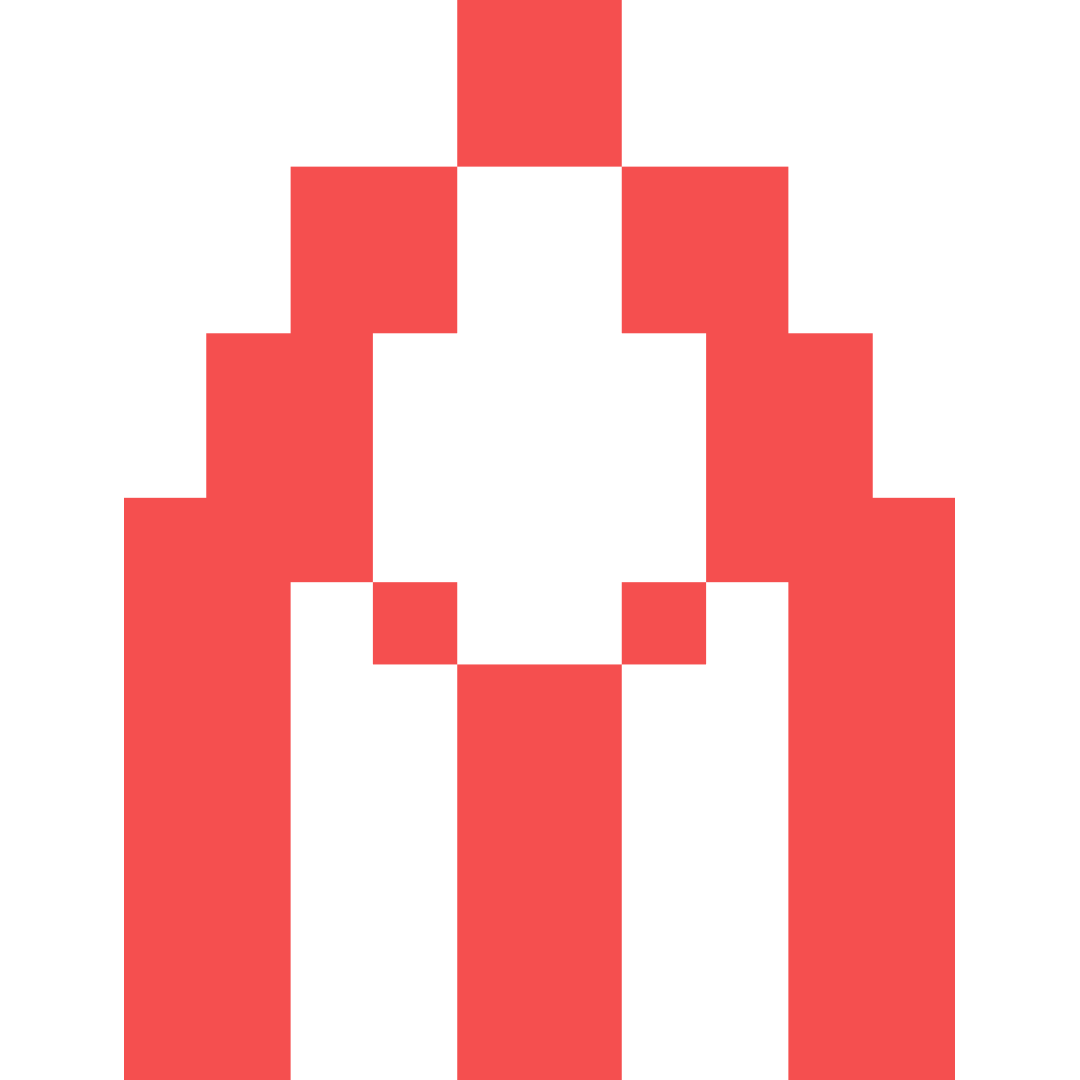
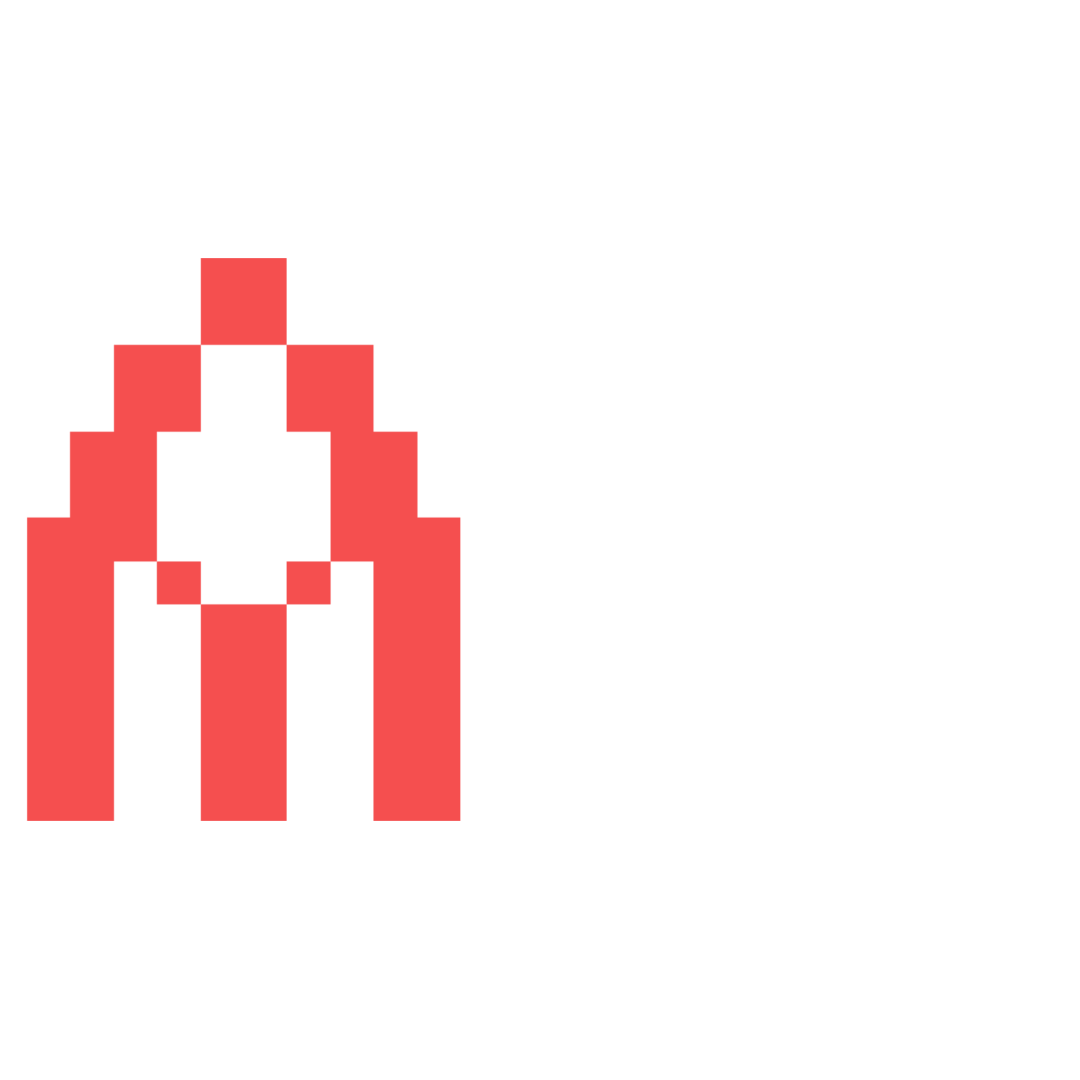
Новое изображение для фб

diff --git a/index.html b/index.html
@@ -1,3 +1,3 @@
-<!doctype html><html lang="ru"><head><meta charset="utf-8"><meta http-equiv="x-ua-compatible" content="ie=edge"><title>Цсл сегодня</title><meta name="description" content="Перед вами пилотная версия популяризаторского портала, работа над которым еще только начинается. Пока что посетителям доступны видеолекции по истории церковнославянского языка и книжности. В ближайшее время появится электронная версия Большого словаря церковнославянского языка Нового времени. Чуть позже — греко-славянский индекс и аннотированный путеводитель по ресурсам Интернета, связанным с церковнославянским языком."><meta name="viewport" content="width=device-width,initial-scale=1"><meta property="og:type" content="website"><meta property="og:url" content="https://csl.ruslang.ru/"><meta property="og:title" content="Церковнославянский язык сегодня"><meta property="og:description" content="Популяризаторский портал о церковнославянском языке."><meta property="og:image:type" content="image/png"><meta property="og:image:width" content="1080"><meta property="og:image:height" content="1080"><meta property="og:image" content="https://csl.ruslang.ru/og-image.png?v=0.9.15"><meta property="og:image:secure_url" content="https://csl.ruslang.ru/og-image.png?v=0.9.15"><meta name="msapplication-TileColor" content="#f54f4f"><meta name="theme-color" content="#ffffff"><link rel="manifest" href="csl.webmanifest"><link rel="apple-touch-icon" href="apple-touch-icon.png"><link rel="apple-touch-icon" sizes="180x180" href="apple-touch-icon-180x180.png"><link rel="apple-touch-icon" sizes="152x152" href="apple-touch-icon-152x152.png"><link rel="apple-touch-icon" sizes="120x120" href="apple-touch-icon-120x120.png"><link rel="apple-touch-icon" sizes="76x76" href="apple-touch-icon-76x76.png"><link rel="apple-touch-icon" sizes="60x60" href="apple-touch-icon-60x60.png"><link rel="icon" type="image/png" sizes="32x32" href="favicon-32x32.png"><link rel="icon" type="image/png" sizes="16x16" href="favicon-16x16.png"><link rel="mask-icon" href="safari-pinned-tab.svg" color="#f54f4f"><link rel="stylesheet" href="https://fonts.googleapis.com/css?family=Roboto+Condensed:400,700|Roboto:400,400i,700,700i&amp;subset=cyrillic,cyrillic-ext,greek,greek-ext,latin-ext"><link rel="stylesheet" href="csl.css?v=0.9.15"></head><body data-bind="css: { dictOrIndex: section() === 'dictionary' }"><style>body{position:relative;box-sizing:border-box;width:100vw;height:100vh;margin:0;padding:0}#safetyCurtain{background-color:#fff;position:absolute;top:0;bottom:0;left:0;right:0;z-index:10000}#safetyCurtain:after{position:absolute;content:'';top:33.3%;left:50%;margin:-1.5em 0 0 -1.5em;width:3em;height:3em;-webkit-animation:spin .6s linear;animation:spin .6s linear;animation-name:spin;animation-duration:.8s;animation-timing-function:linear;animation-delay:0s;animation-iteration-count:infinite;animation-direction:normal;animation-fill-mode:none;animation-play-state:running;-webkit-animation-iteration-count:infinite;animation-iteration-count:infinite;border-radius:500rem;border-color:red #ff000099 #ff000044 #ff000011;border-style:solid;border-width:.2em;-webkit-box-shadow:0 0 0 1px transparent;box-shadow:0 0 0 1px transparent;visibility:visible;z-index:10001}@keyframes spin{from{transform:rotate(0)}to{transform:rotate(-360deg)}}</style><div id="safetyCurtain"></div><svg xmlns="http://www.w3.org/2000/svg"><symbol id="icon-random" viewBox="0 0 128 128"><g style="fill:none;fill-opacity:1;stroke:currentColor;stroke-width:11.33858299;stroke-linecap:butt;stroke-linejoin:miter;stroke-miterlimit:4;stroke-dasharray:none;stroke-dashoffset:0;stroke-opacity:1"><path d="m 68.871755,81.001429 c 5.458605,5.14839 10.917179,10.296751 17.926866,12.870917 7.009688,2.574166 15.568519,2.574166 24.128349,2.574166"></path><path d="m 3.572093,30.065116 c 8.422569,0 16.844139,0 24.503061,2.604422 7.658923,2.604423 14.557681,7.814387 21.455463,13.023614"></path><path d="M 3.6464846,96.38837 C 15.482028,95.741026 27.317416,95.09369 36.19828,90.399025 45.079145,85.70436 51.008451,76.962034 57.450832,65.898445 63.893213,54.834856 70.849277,41.449387 80.178618,35.050687 89.507959,28.651986 101.21026,29.238809 112.9116,29.825584"></path><path d="M 97.245271,9.7059688 116.39964,30.065116 97.455759,49.277638"></path><path d="M 97.478948,76.087365 116.63333,96.446512 97.689438,115.65903"></path></g></symbol></svg><header id="header"><a href="./"><figure id="logo"><svg xmlns="http://www.w3.org/2000/svg" viewBox="0 0 394 512" preserveAspectRatio="xMidYMid meet"><path style="fill:#f54f4f;stroke:none" d="M 158,39.5 V 79 H 118.5 79 V 118.5 158 H 59 39 v 39 39 H 19.5 0 V 374 512 H 39.5 79 V 394 276 H 98.5 118 v 19.5 19.5 h 20 20 v 98.5 98.5 h 39 39 V 413.5 315 h 20 20 V 295.5 276 H 295.5 315 V 394 512 H 354.5 394 V 374 236 H 374.5 355 V 197 158 H 335 315 V 118.5 79 H 275.5 236 V 39.5 0 h -39 -39 z m 78,79 V 158 h 20 20 v 59 59 H 256 236 V 295.5 315 H 197 158 V 295.5 276 h -20 -20 v -59 -59 h 20 20 V 118.5 79 h 39 39 z"></path></svg><figcaption>Церковнославянский<br>язык<br>сегодня</figcaption></figure></a><div id="slovnik"></div><nav id="menu"><i id="burger"></i><ul><li class="disabled" data-bind="css: { active: section() === 'dictionary' }"><a href="./словарь">Словарь</a><ul><li><a href="./словарь/описание">О словаре</a></li></ul></li><li data-bind="css: { active: section() === 'video' }"><a href="./видео">Видео</a></li><li class="disabled" data-bind="css: { active: section() === 'refs' }"><a href="./ссылки">Ссылки</a></li><li><a href="mailto:csl_centr@mail.ru?subject=[Цсл сегодня]">Обратная связь</a></li></ul></nav><nav id="dict_menu" data-bind="visible: section() === 'dictionary'"><ul><li data-bind="css: { active: !indexIsOn() }"><a href="./словарь/статьи">Словарь</a></li><li data-bind="css: { active: indexIsOn }"><a href="./словарь/индекс">Греческий индекс</a></li></ul><div id="dict_menu_cursor" data-bind="css: { indexIsOn: indexIsOn }"></div></nav></header><div id="main"><div id="legend" data-bind="visible: !section()">Перед вами пилотная версия популяризаторского портала, работа над которым еще только начинается. Пока что посетителям доступны видеолекции по истории церковнославянского языка и книжности. В ближайшее время появится электронная версия Большого словаря церковнославянского языка Нового времени. Чуть позже — греко-славянский индекс и аннотированный путеводитель по ресурсам Интернета, связанным с церковнославянским языком.</div><section class="video" data-bind="visible: !section()"><header><aside>Случайные лекции из&nbsp;нашего <a href="./видео">видеоархива</a> <a class="random" href="" data-bind="click: getRandomVideos"><svg class="icon"><use xlink:href="#icon-random"/></svg></a></aside></header><div class="main"><!-- ko foreach: randomVideos --><figure><iframe width="1270" height="480" frameborder="0" data-bind="attr: { src: 'https://www.youtube.com/embed/' + id }" allow="accelerometer; autoplay; encrypted-media; gyroscope;
+<!doctype html><html lang="ru"><head><meta charset="utf-8"><meta http-equiv="x-ua-compatible" content="ie=edge"><title>Цсл сегодня</title><meta name="description" content="Перед вами пилотная версия популяризаторского портала, работа над которым еще только начинается. Пока что посетителям доступны видеолекции по истории церковнославянского языка и книжности. В ближайшее время появится электронная версия Большого словаря церковнославянского языка Нового времени. Чуть позже — греко-славянский индекс и аннотированный путеводитель по ресурсам Интернета, связанным с церковнославянским языком."><meta name="viewport" content="width=device-width,initial-scale=1"><meta property="og:type" content="website"><meta property="og:url" content="https://csl.ruslang.ru/"><meta property="og:title" content="Церковнославянский язык сегодня"><meta property="og:description" content="Просветительский портал о церковнославянском языке."><meta property="og:image:type" content="image/png"><meta property="og:image:width" content="1080"><meta property="og:image:height" content="1080"><meta property="og:image" content="https://csl.ruslang.ru/og-image.png?v=0.9.18"><meta property="og:image:secure_url" content="https://csl.ruslang.ru/og-image.png?v=0.9.18"><meta name="msapplication-TileColor" content="#f54f4f"><meta name="theme-color" content="#ffffff"><link rel="manifest" href="csl.webmanifest"><link rel="apple-touch-icon" href="apple-touch-icon.png"><link rel="apple-touch-icon" sizes="180x180" href="apple-touch-icon-180x180.png"><link rel="apple-touch-icon" sizes="152x152" href="apple-touch-icon-152x152.png"><link rel="apple-touch-icon" sizes="120x120" href="apple-touch-icon-120x120.png"><link rel="apple-touch-icon" sizes="76x76" href="apple-touch-icon-76x76.png"><link rel="apple-touch-icon" sizes="60x60" href="apple-touch-icon-60x60.png"><link rel="icon" type="image/png" sizes="32x32" href="favicon-32x32.png"><link rel="icon" type="image/png" sizes="16x16" href="favicon-16x16.png"><link rel="mask-icon" href="safari-pinned-tab.svg" color="#f54f4f"><link rel="stylesheet" href="https://fonts.googleapis.com/css?family=Roboto+Condensed:400,700|Roboto:400,400i,700,700i&amp;subset=cyrillic,cyrillic-ext,greek,greek-ext,latin-ext"><link rel="stylesheet" href="csl.css?v=0.9.18"></head><body data-bind="css: { dictOrIndex: section() === 'dictionary' }"><style>body{position:relative;box-sizing:border-box;width:100vw;height:100vh;margin:0;padding:0}#safetyCurtain{background-color:#fff;position:absolute;top:0;bottom:0;left:0;right:0;z-index:10000}#safetyCurtain:after{position:absolute;content:'';top:33.3%;left:50%;margin:-1.5em 0 0 -1.5em;width:3em;height:3em;-webkit-animation:spin .6s linear;animation:spin .6s linear;animation-name:spin;animation-duration:.8s;animation-timing-function:linear;animation-delay:0s;animation-iteration-count:infinite;animation-direction:normal;animation-fill-mode:none;animation-play-state:running;-webkit-animation-iteration-count:infinite;animation-iteration-count:infinite;border-radius:500rem;border-color:red #ff000099 #ff000044 #ff000011;border-style:solid;border-width:.2em;-webkit-box-shadow:0 0 0 1px transparent;box-shadow:0 0 0 1px transparent;visibility:visible;z-index:10001}@keyframes spin{from{transform:rotate(0)}to{transform:rotate(-360deg)}}</style><div id="safetyCurtain"></div><svg xmlns="http://www.w3.org/2000/svg"><symbol id="icon-random" viewBox="0 0 128 128"><g style="fill:none;fill-opacity:1;stroke:currentColor;stroke-width:11.33858299;stroke-linecap:butt;stroke-linejoin:miter;stroke-miterlimit:4;stroke-dasharray:none;stroke-dashoffset:0;stroke-opacity:1"><path d="m 68.871755,81.001429 c 5.458605,5.14839 10.917179,10.296751 17.926866,12.870917 7.009688,2.574166 15.568519,2.574166 24.128349,2.574166"></path><path d="m 3.572093,30.065116 c 8.422569,0 16.844139,0 24.503061,2.604422 7.658923,2.604423 14.557681,7.814387 21.455463,13.023614"></path><path d="M 3.6464846,96.38837 C 15.482028,95.741026 27.317416,95.09369 36.19828,90.399025 45.079145,85.70436 51.008451,76.962034 57.450832,65.898445 63.893213,54.834856 70.849277,41.449387 80.178618,35.050687 89.507959,28.651986 101.21026,29.238809 112.9116,29.825584"></path><path d="M 97.245271,9.7059688 116.39964,30.065116 97.455759,49.277638"></path><path d="M 97.478948,76.087365 116.63333,96.446512 97.689438,115.65903"></path></g></symbol></svg><header id="header"><a href="./"><figure id="logo"><svg xmlns="http://www.w3.org/2000/svg" viewBox="0 0 394 512" preserveAspectRatio="xMidYMid meet"><path style="fill:#f54f4f;stroke:none" d="M 158,39.5 V 79 H 118.5 79 V 118.5 158 H 59 39 v 39 39 H 19.5 0 V 374 512 H 39.5 79 V 394 276 H 98.5 118 v 19.5 19.5 h 20 20 v 98.5 98.5 h 39 39 V 413.5 315 h 20 20 V 295.5 276 H 295.5 315 V 394 512 H 354.5 394 V 374 236 H 374.5 355 V 197 158 H 335 315 V 118.5 79 H 275.5 236 V 39.5 0 h -39 -39 z m 78,79 V 158 h 20 20 v 59 59 H 256 236 V 295.5 315 H 197 158 V 295.5 276 h -20 -20 v -59 -59 h 20 20 V 118.5 79 h 39 39 z"></path></svg><figcaption>Церковнославянский<br>язык<br>сегодня</figcaption></figure></a><div id="slovnik"></div><nav id="menu"><i id="burger"></i><ul><li class="disabled" data-bind="css: { active: section() === 'dictionary' }"><a href="./словарь">Словарь</a><ul><li><a href="./словарь/описание">О словаре</a></li></ul></li><li data-bind="css: { active: section() === 'video' }"><a href="./видео">Видео</a></li><li class="disabled" data-bind="css: { active: section() === 'refs' }"><a href="./ссылки">Ссылки</a></li><li><a href="mailto:csl_centr@mail.ru?subject=[Цсл сегодня]">Обратная связь</a></li></ul></nav><nav id="dict_menu" data-bind="visible: section() === 'dictionary'"><ul><li data-bind="css: { active: !indexIsOn() }"><a href="./словарь/статьи">Словарь</a></li><li data-bind="css: { active: indexIsOn }"><a href="./словарь/индекс">Греческий индекс</a></li></ul><div id="dict_menu_cursor" data-bind="css: { indexIsOn: indexIsOn }"></div></nav></header><div id="main"><div id="legend" data-bind="visible: !section()">Перед вами пилотная версия популяризаторского портала, работа над которым еще только начинается. Пока что посетителям доступны видеолекции по истории церковнославянского языка и книжности. В ближайшее время появится электронная версия Большого словаря церковнославянского языка Нового времени. Чуть позже — греко-славянский индекс и аннотированный путеводитель по ресурсам Интернета, связанным с церковнославянским языком.</div><section class="video" data-bind="visible: !section()"><header><aside>Случайные лекции из&nbsp;нашего <a href="./видео">видеоархива</a> <a class="random" href="" data-bind="click: getRandomVideos"><svg class="icon"><use xlink:href="#icon-random"/></svg></a></aside></header><div class="main"><!-- ko foreach: randomVideos --><figure><iframe width="1270" height="480" frameborder="0" data-bind="attr: { src: 'https://www.youtube.com/embed/' + id }" allow="accelerometer; autoplay; encrypted-media; gyroscope;
               picture-in-picture" allowfullscreen></iframe><figcaption><header data-bind="text: title"></header><div class="speaker" data-bind="text: speaker"></div><legend data-bind="text: legend"></legend></figcaption></figure><!-- /ko --></div></section><section class="video" data-bind="visible: section() === 'video'"><header><h1>Видео</h1></header><div class="main"><!-- ko foreach: videos --><figure><iframe width="1270" height="480" frameborder="0" data-bind="attr: { src: 'https://www.youtube.com/embed/' + id }" allow="accelerometer; autoplay; encrypted-media; gyroscope;
-              picture-in-picture" allowfullscreen></iframe><figcaption><header data-bind="text: title"></header><div class="speaker" data-bind="text: speaker"></div><legend data-bind="text: legend"></legend></figcaption></figure><!-- /ko --></div></section><section class="article" data-bind="visible: !section() || section() === 'dictionary' && !indexIsOn()"><header><aside data-bind="visible: !section()">Случайные статьи из&nbsp;нашего <a class="disabled" href="./словарь/статьи">словаря</a> <a class="random" href="" data-bind="click: getRandomArticles"><svg class="icon"><use xlink:href="#icon-random"/></svg></a></aside></header><div class="main"><!-- ko foreach: randomArticles --><div data-bind="html: $data"></div><!-- /ko --></div></section><section class="refs" data-bind="visible: !section()"><header><aside data-bind="visible: !section()">Случайная <a class="disabled" href="./ссылки">ссылка</a> <a class="random" href="" data-bind="click: getRandomRefs"><svg class="icon"><use xlink:href="#icon-random"/></svg></a></aside><h1 data-bind="visible: section">Ссылки</h1></header><div class="main" data-bind="foreach: randomRefs"><div data-bind="html: $data"></div></div></section><section class="index" data-bind="visible: section() === 'dictionary' && indexIsOn()"></section></div><footer id="footer"><div class="patrons"><a href="http://www.ruslang.ru/centre_church-slav"><figure class="c3"><picture><img src="img/c3.png"></picture><figcaption>Научный центр по&nbsp;изучению церковнославянского языка Института русского языка им.&nbsp;В.&nbsp;В.&nbsp;Виноградова Российской академии наук</figcaption></figure></a><a href="http://rodnoeslovo.ru/"><figure class="rslovo"><picture><img src="img/rslovo.png"></picture><figcaption>Некоммерческое партнерство по&nbsp;содействию в&nbsp;поддержке и сохранении русского языка «Родное&nbsp;слово»</figcaption></figure></a><a href="https://президентскиегранты.рф/"><figure class="pfond"><picture><img src="img/pgrants_logo.png"></picture><figcaption>Работа выполнена с&nbsp;использованием гранта Президента Российской Федерации на&nbsp;развитие гражданского общества, предоставленного Фондом президентских грантов</figcaption></figure></a></div><div id="version">Версия портала<br>«Церковнославянский язык сегодня»<br>0.9.15</div></footer><script src="https://code.jquery.com/jquery-3.3.1.min.js" integrity="sha256-FgpCb/KJQlLNfOu91ta32o/NMZxltwRo8QtmkMRdAu8=" crossorigin="anonymous"></script><script>window.jQuery||document.write('<script src="js/jquery.min.js?v=0.9.15"><\/script>')</script><script src="https://cdnjs.cloudflare.com/ajax/libs/knockout/3.4.2/knockout-min.js" crossorigin="anonymous"></script><script>window.ko||document.write('<script src="js/knockout.min.js?v=0.9.15"><\/script>')</script><script src="js/spa.js?v=0.9.15"></script><script type="text/javascript">!function(e,t,a,n,c,m,i){e.ym=e.ym||function(){(e.ym.a=e.ym.a||[]).push(arguments)},e.ym.l=1*new Date,m=t.createElement(a),i=t.getElementsByTagName(a)[0],m.async=1,m.src="https://mc.yandex.ru/metrika/tag.js",i.parentNode.insertBefore(m,i)}(window,document,"script"),ym(51881207,"init",{id:51881207,clickmap:!0,trackLinks:!0,accurateTrackBounce:!0})</script><noscript><div><img src="https://mc.yandex.ru/watch/51881207" style="position:absolute;left:-9999px" alt=""></div></noscript><script src="https://www.googletagmanager.com/gtag/js?id=UA-132379378-1" async></script><script>function gtag(){dataLayer.push(arguments)}window.dataLayer=window.dataLayer||[],gtag("js",new Date),gtag("config","UA-132379378-1")</script></body></html>
+              picture-in-picture" allowfullscreen></iframe><figcaption><header data-bind="text: title"></header><div class="speaker" data-bind="text: speaker"></div><legend data-bind="text: legend"></legend></figcaption></figure><!-- /ko --></div></section><section class="article" data-bind="visible: !section() || section() === 'dictionary' && !indexIsOn()"><header><aside data-bind="visible: !section()">Случайные статьи из&nbsp;нашего <a class="disabled" href="./словарь/статьи">словаря</a> <a class="random" href="" data-bind="click: getRandomArticles"><svg class="icon"><use xlink:href="#icon-random"/></svg></a></aside></header><div class="main"><!-- ko foreach: randomArticles --><div data-bind="html: $data"></div><!-- /ko --></div></section><section class="refs" data-bind="visible: !section()"><header><aside data-bind="visible: !section()">Случайная <a class="disabled" href="./ссылки">ссылка</a> <a class="random" href="" data-bind="click: getRandomRefs"><svg class="icon"><use xlink:href="#icon-random"/></svg></a></aside><h1 data-bind="visible: section">Ссылки</h1></header><div class="main" data-bind="foreach: randomRefs"><div data-bind="html: $data"></div></div></section><section class="index" data-bind="visible: section() === 'dictionary' && indexIsOn()"></section></div><footer id="footer"><div class="patrons"><a href="http://www.ruslang.ru/centre_church-slav"><figure class="c3"><picture><img src="img/c3.png"></picture><figcaption>Научный центр по&nbsp;изучению церковнославянского языка Института русского языка им.&nbsp;В.&nbsp;В.&nbsp;Виноградова Российской академии наук</figcaption></figure></a><a href="http://rodnoeslovo.ru/"><figure class="rslovo"><picture><img src="img/rslovo.png"></picture><figcaption>Некоммерческое партнерство по&nbsp;содействию в&nbsp;поддержке и сохранении русского языка «Родное&nbsp;слово»</figcaption></figure></a><a href="https://президентскиегранты.рф/"><figure class="pfond"><picture><img src="img/pgrants_logo.png"></picture><figcaption>Работа выполнена с&nbsp;использованием гранта Президента Российской Федерации на&nbsp;развитие гражданского общества, предоставленного Фондом президентских грантов</figcaption></figure></a></div><div id="version">Версия портала<br>«Церковнославянский язык сегодня»<br>0.9.18</div></footer><script src="https://code.jquery.com/jquery-3.3.1.min.js" integrity="sha256-FgpCb/KJQlLNfOu91ta32o/NMZxltwRo8QtmkMRdAu8=" crossorigin="anonymous"></script><script>window.jQuery||document.write('<script src="js/jquery.min.js?v=0.9.18"><\/script>')</script><script src="https://cdnjs.cloudflare.com/ajax/libs/knockout/3.4.2/knockout-min.js" crossorigin="anonymous"></script><script>window.ko||document.write('<script src="js/knockout.min.js?v=0.9.18"><\/script>')</script><script src="js/spa.js?v=0.9.18"></script><script type="text/javascript">!function(e,t,a,n,c,m,i){e.ym=e.ym||function(){(e.ym.a=e.ym.a||[]).push(arguments)},e.ym.l=1*new Date,m=t.createElement(a),i=t.getElementsByTagName(a)[0],m.async=1,m.src="https://mc.yandex.ru/metrika/tag.js",i.parentNode.insertBefore(m,i)}(window,document,"script"),ym(51881207,"init",{id:51881207,clickmap:!0,trackLinks:!0,accurateTrackBounce:!0})</script><noscript><div><img src="https://mc.yandex.ru/watch/51881207" style="position:absolute;left:-9999px" alt=""></div></noscript><script src="https://www.googletagmanager.com/gtag/js?id=UA-132379378-1" async></script><script>function gtag(){dataLayer.push(arguments)}window.dataLayer=window.dataLayer||[],gtag("js",new Date),gtag("config","UA-132379378-1")</script></body></html>
